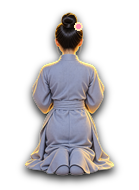
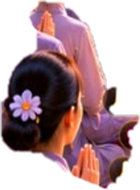
feat(hall): refine devotee grid spread, aisle badges and fix desktop letterbox

diff --git a/public/js/live.js b/public/js/live.js
@@ -19,7 +19,9 @@ import { dispatchGiftSfx } from './gift-sfx-dispatcher.js';
   function fitStage() {
     if (!stageWrapper || !stage9x16) return;
     const rect = stageWrapper.getBoundingClientRect();
-    const scale = rect.width / 1080;
+    const scale = Math.min(rect.width / 1080, rect.height / 1920);
+    stageWrapper.style.width = `${Math.round(1080 * scale)}px`;
+    stageWrapper.style.height = `${Math.round(1920 * scale)}px`;
     stage9x16.style.transform = `scale(${scale})`;
   }
   window.addEventListener('resize', fitStage);
@@ -120,55 +122,90 @@ import { dispatchGiftSfx } from './gift-sfx-dispatcher.js';
   let cachedLeaderboard = [];
   const ALL_HALL_SEATS = [];
 
-  const DEFAULT_DEVOTEE_NAMES = [
-    'Minh Tâm', 'Diệu Hạnh', 'Quang Phúc', 'Thanh Mai', 'An Nhiên', 'Thiện Đức',
-    'Bảo Ngọc', 'Tuệ Lâm', 'Ngọc Hân', 'Thuận Hòa', 'Hồng Phúc', 'Vạn An',
-    'Kim Oanh', 'Đức Thịnh', 'Gia Huy', 'Tâm Nguyện', 'Trí Dũng', 'Diệu Âm',
-    'Phước Lộc', 'Thanh Tịnh', 'Bình An', 'Như Ý', 'Tâm An', 'Liên Hoa',
-    'Chí Thiện', 'Diệu Quang', 'Đại Nghĩa', 'Bảo Trâm', 'Vĩnh Khang', 'Tuệ Minh',
-    'Hải Đăng', 'Nguyên Thảo', 'Quốc Bảo', 'Xuân Mai', 'Tùng Lâm', 'Hương Giang',
-    'Minh Triết', 'Ngọc Lan', 'Thái Sơn', 'Cẩm Tú', 'Hoàng Long', 'Thảo Nguyên',
-    'Đức Huy', 'Yến Nhi', 'Minh Khôi', 'Khánh Linh', 'Nhật Minh', 'Hà Phương',
-    'Khánh Vân', 'Tường Vy', 'Quỳnh Anh', 'Thục Quyên', 'Gia Bảo', 'Đăng Khoa',
-    'Phúc Thịnh', 'Minh An', 'Hoàng Quân', 'Ánh Tuyết', 'Mỹ Linh', 'Trọng Hiếu'
+  // Danh sách 16 Phật tử quỳ dọc 2 mép thảm đỏ chuẩn theo thiết kế Chùa Thiên Cảnh
+  const AISLE_NAMES_LEFT = [
+    { name: 'Minh Tâm', icon: '🌸' },
+    { name: 'Diệu Hạnh', icon: '🌸' },
+    { name: 'Quang Phúc', icon: '🙏' },
+    { name: 'Thanh Mai', icon: '🌸' },
+    { name: 'An Nhiên', icon: '🙏' },
+    { name: 'Thiện Đức', icon: '🌸' },
+    { name: 'Bảo Ngọc', icon: '🙏' },
+    { name: 'Tuệ Lâm', icon: '🌸' }
+  ];
+
+  const AISLE_NAMES_RIGHT = [
+    { name: 'Ngọc Hân', icon: '🌸' },
+    { name: 'Thuận Hòa', icon: '🙏' },
+    { name: 'Hồng Phúc', icon: '🌸' },
+    { name: 'Vạn An', icon: '🙏' },
+    { name: 'Kim Oanh', icon: '🌸' },
+    { name: 'Đức Thịnh', icon: '🙏' },
+    { name: 'Gia Huy', icon: '🌸' },
+    { name: 'Tâm Nguyện', icon: '🙏' }
   ];
 
   (function buildHallGrid60() {
-    const rows = 6;
-    const colsPerSide = 5;
+    const rows = 8;
+    const colsPerSide = 4;
     const rawSeats = [];
 
     for (let r = 0; r < rows; r++) {
       const progress = r / (rows - 1); // 0 (xa gần ban thờ) -> 1 (gần camera)
-      const y = Math.round(1120 + progress * 520); // 1120 -> 1640
-      const scale = +(0.36 + progress * 0.52).toFixed(2); // 0.36 -> 0.88
+      const y = Math.round(1060 + progress * 720); // 1060 -> 1780
+      const scale = +(0.32 + progress * 0.58).toFixed(2); // 0.32 -> 0.90
 
-      // Cánh trái thảm đỏ (5 cột mở rộng phối cảnh)
-      const leftInnerX = Math.round(380 - progress * 150);
-      const leftOuterX = Math.round(120 - progress * 70);
+      // Cánh trái thảm đỏ (từ mép hoa sen lan tỏa sang cột gỗ)
+      const leftAisleX = Math.round(440 - progress * 210);
+      const leftPillarX = Math.round(180 - progress * 150);
       for (let c = 0; c < colsPerSide; c++) {
         const t = c / (colsPerSide - 1);
-        const x = Math.round(leftOuterX + t * (leftInnerX - leftOuterX));
+        const x = Math.round(leftAisleX - t * (leftAisleX - leftPillarX));
         const isFemale = ((r + c) % 2 === 0);
-        // Ưu tiên cột gần lối đi thảm đỏ (c=4 là sát thảm đỏ nhất)
-        const priority = (4 - c) * 10 + Math.abs(r - 2);
-        rawSeats.push({ side: 'L', row: r, col: c, x, y, scale, isFemale, priority });
+        const isAisle = (c === 0);
+        // Ưu tiên hàng sát lối đi trước (c=0), tỏa dần sang ngoài
+        const priority = c * 100 + r * 2;
+        const defaultInfo = (isAisle && AISLE_NAMES_LEFT[r]) ? AISLE_NAMES_LEFT[r] : null;
+        rawSeats.push({
+          side: 'L',
+          row: r,
+          col: c,
+          x,
+          y,
+          scale,
+          isFemale,
+          isAisle,
+          defaultInfo,
+          priority
+        });
       }
 
-      // Cánh phải thảm đỏ (5 cột mở rộng phối cảnh)
-      const rightInnerX = Math.round(700 + progress * 150);
-      const rightOuterX = Math.round(960 + progress * 70);
+      // Cánh phải thảm đỏ (từ mép hoa sen lan tỏa sang cột gỗ)
+      const rightAisleX = Math.round(640 + progress * 210);
+      const rightPillarX = Math.round(900 + progress * 150);
       for (let c = 0; c < colsPerSide; c++) {
         const t = c / (colsPerSide - 1);
-        const x = Math.round(rightInnerX + t * (rightOuterX - rightInnerX));
+        const x = Math.round(rightAisleX + t * (rightPillarX - rightAisleX));
         const isFemale = ((r + c) % 2 !== 0);
-        // Ưu tiên cột gần lối đi thảm đỏ (c=0 là sát thảm đỏ nhất)
-        const priority = c * 10 + Math.abs(r - 2);
-        rawSeats.push({ side: 'R', row: r, col: c, x, y, scale, isFemale, priority });
+        const isAisle = (c === 0);
+        const priority = c * 100 + r * 2 + 1;
+        const defaultInfo = (isAisle && AISLE_NAMES_RIGHT[r]) ? AISLE_NAMES_RIGHT[r] : null;
+        rawSeats.push({
+          side: 'R',
+          row: r,
+          col: c,
+          x,
+          y,
+          scale,
+          isFemale,
+          isAisle,
+          defaultInfo,
+          priority
+        });
       }
     }
 
-    // Sắp xếp thứ tự ưu tiên lấp chỗ ngồi: sát lối đi trước, từ hàng giữa tỏa đều
+    // Sắp xếp thứ tự ưu tiên lấp chỗ ngồi: hàng lối đi (c=0) trước, đối xứng trái phải
     rawSeats.sort((a, b) => a.priority - b.priority);
     ALL_HALL_SEATS.push(...rawSeats);
   })();
@@ -183,6 +220,7 @@ import { dispatchGiftSfx } from './gift-sfx-dispatcher.js';
       renderCongregationHall(cachedLeaderboard);
     }
   }
+  window.setHallDevoteeCount = setHallDevoteeCount;
 
   function renderCongregationHall(leaderboard = []) {
     if (!congregationHall) return;
@@ -198,45 +236,53 @@ import { dispatchGiftSfx } from './gift-sfx-dispatcher.js';
       return;
     }
 
-    // Chọn đúng số lượng Phật tử được cấu hình và sắp xếp theo chiều sâu Y để render z-index chuẩn
+    // Lấy đúng số lượng Phật tử được cấu hình
     const activeSeats = ALL_HALL_SEATS.slice(0, currentDevoteeCount);
+    // Sắp xếp theo chiều sâu Y để render z-index chuẩn (người ngồi trước che người ngồi sau)
     activeSeats.sort((a, b) => a.y - b.y);
 
-    const seatViewerMap = new Map();
-    activeSeats.forEach((seat, idx) => {
-      if (hallViewers[idx]) {
-        seatViewerMap.set(idx, hallViewers[idx]);
-      } else if (DEFAULT_DEVOTEE_NAMES[idx]) {
-        seatViewerMap.set(idx, {
-          name: DEFAULT_DEVOTEE_NAMES[idx],
-          isDefault: true
-        });
-      }
-    });
-
     congregationHall.innerHTML = activeSeats.map((seat, idx) => {
-      const viewer = seatViewerMap.get(idx);
-      const spriteSrc = seat.isFemale ? '/assets/devotee_female.png' : '/assets/devotee_male.png';
-      const icon = seat.isFemale ? '🌸' : '🙏';
+      let displayName = '';
+      let displayIcon = seat.isFemale ? '🌸' : '🙏';
+      let avatarUrl = '';
+      let showBadge = seat.isAisle; // Mặc định chỉ hàng lối đi mới hiển thị thẻ tên (tránh đè nhau)
 
-      const badgeHtml = viewer
+      if (seat.isAisle && seat.defaultInfo) {
+        displayName = seat.defaultInfo.name;
+        displayIcon = seat.defaultInfo.icon;
+      }
+
+      // Nếu có người xem thực tế từ leaderboard, ưu tiên gắn
+      if (hallViewers[idx]) {
+        displayName = hallViewers[idx].name;
+        if (hallViewers[idx].avatar) avatarUrl = hallViewers[idx].avatar;
+        showBadge = seat.isAisle || (hallViewers[idx].merit > 0);
+      }
+
+      const spriteSrc = seat.isFemale ? '/assets/devotee_female.png' : '/assets/devotee_male.png';
+
+      const badgeHtml = (showBadge && displayName)
         ? `
-          <div class="seat-badge">
+          <div class="seat-badge ${seat.side === 'L' ? 'seat-badge-left' : 'seat-badge-right'}">
             <span class="seat-avatar">${
-              viewer.avatar
-                ? `<img src="${escapeHtml(viewer.avatar)}" alt="" />`
-                : icon
+              avatarUrl
+                ? `<img src="${escapeHtml(avatarUrl)}" alt="" />`
+                : displayIcon
             }</span>
-            <span class="seat-username">${escapeHtml(shortenName(viewer.name, 10))}</span>
+            <span class="seat-username">${escapeHtml(shortenName(displayName, 11))}</span>
           </div>
         `
         : '';
 
+      const zIndex = 10 + Math.round((seat.y - 1000) / 10);
+
       return `
         <div
           class="hall-seat"
-          data-seat-idx="${idx}"
-          style="left: ${seat.x}px; top: ${seat.y}px; z-index: ${10 + seat.row * 2}; transform: translate(-50%, -100%) scale(${seat.scale});"
+          data-seat-side="${seat.side}"
+          data-seat-col="${seat.col}"
+          data-seat-row="${seat.row}"
+          style="left: ${seat.x}px; top: ${seat.y}px; z-index: ${zIndex}; transform: translate(-50%, -100%) scale(${seat.scale});"
         >
           <img
             src="${spriteSrc}"

diff --git a/public/css/live.css b/public/css/live.css
@@ -596,10 +596,10 @@ body.obs-mode .stage-wrapper {
 }
 
 .hall-seat .devotee-sprite {
-  width: 96px;
-  height: 131px;
+  width: 140px;
+  height: 190px;
   object-fit: contain;
-  filter: drop-shadow(0 6px 14px rgba(0, 0, 0, 0.65));
+  filter: drop-shadow(0 8px 18px rgba(0, 0, 0, 0.75));
   animation: devoteePraySway 3.8s ease-in-out infinite;
 }
 
@@ -615,29 +615,31 @@ body.obs-mode .stage-wrapper {
 .seat-badge {
   display: inline-flex;
   align-items: center;
-  gap: 4px;
-  padding: 1.5px 8px 1.5px 4px;
+  gap: 5px;
+  padding: 2.5px 10px 2.5px 6px;
   border-radius: 999px;
-  background: rgba(28, 10, 6, 0.94);
-  border: 1px solid rgba(255, 215, 110, 0.7);
-  box-shadow: 0 4px 10px rgba(0, 0, 0, 0.75);
-  margin-top: -6px;
+  background: linear-gradient(180deg, rgba(34, 12, 8, 0.96) 0%, rgba(18, 5, 3, 0.98) 100%);
+  border: 1.2px solid rgba(255, 215, 110, 0.85);
+  box-shadow: 0 4px 12px rgba(0, 0, 0, 0.85), inset 0 1px 2px rgba(255, 235, 160, 0.35);
+  margin-top: -12px;
   white-space: nowrap;
 }
 
 .seat-avatar {
-  width: 17px;
-  height: 17px;
+  width: 19px;
+  height: 19px;
   border-radius: 50%;
   background: #6b150e;
   border: 1px solid var(--gold-bright);
   color: var(--gold-bright);
-  font-size: 9.5px;
+  font-size: 11px;
   font-weight: 800;
   display: inline-flex;
   align-items: center;
   justify-content: center;
   overflow: hidden;
+  flex-shrink: 0;
+}
 }
 .seat-avatar img {
   width: 100%;
